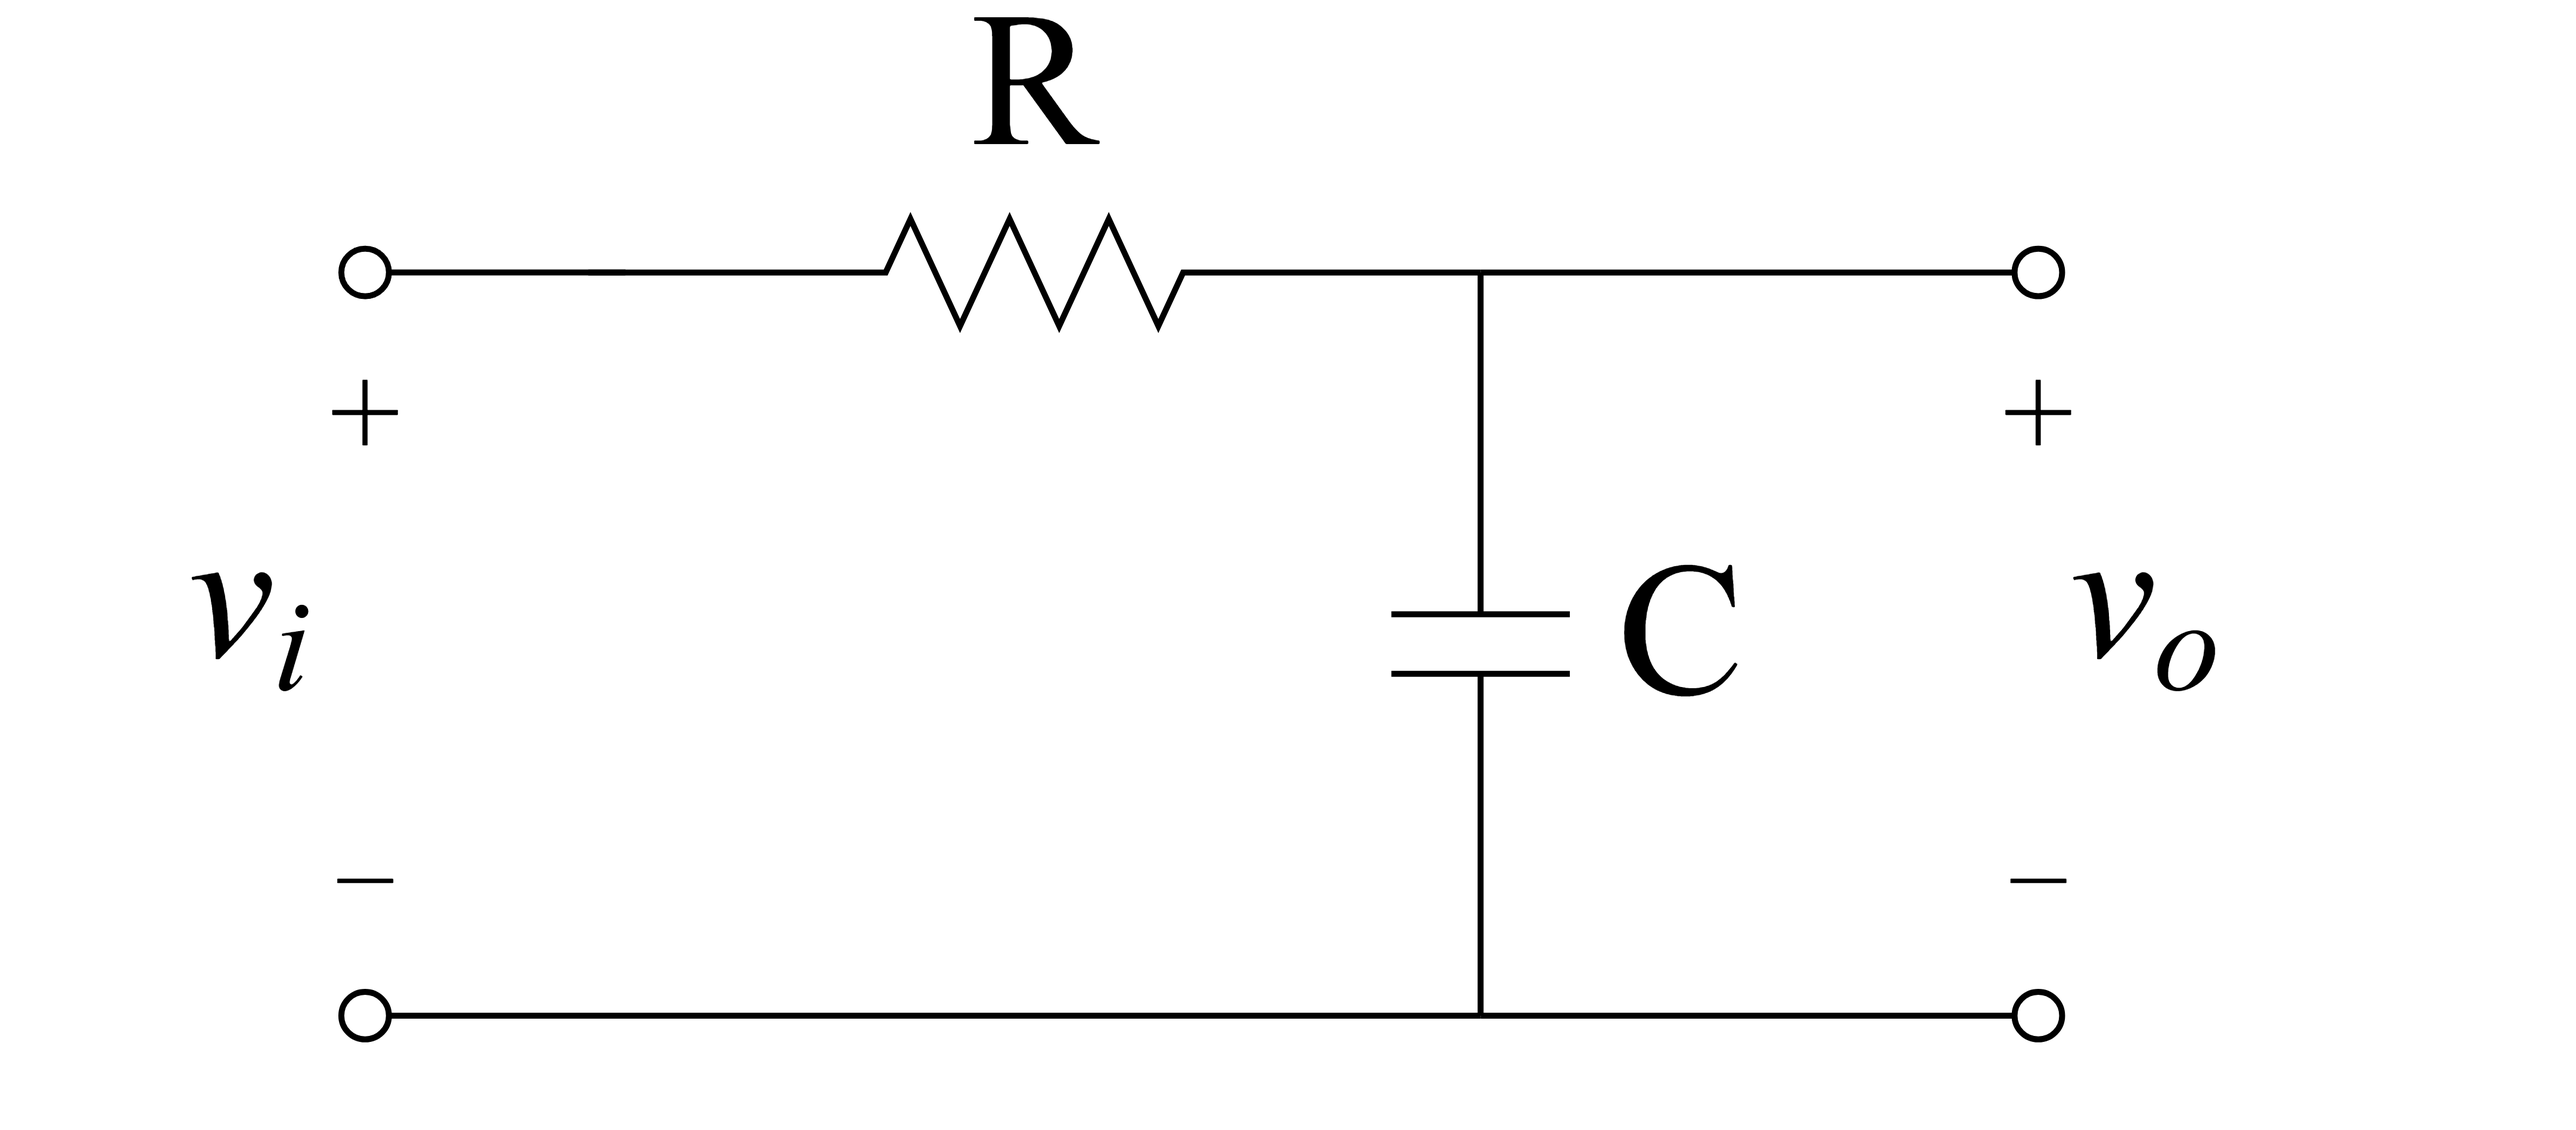
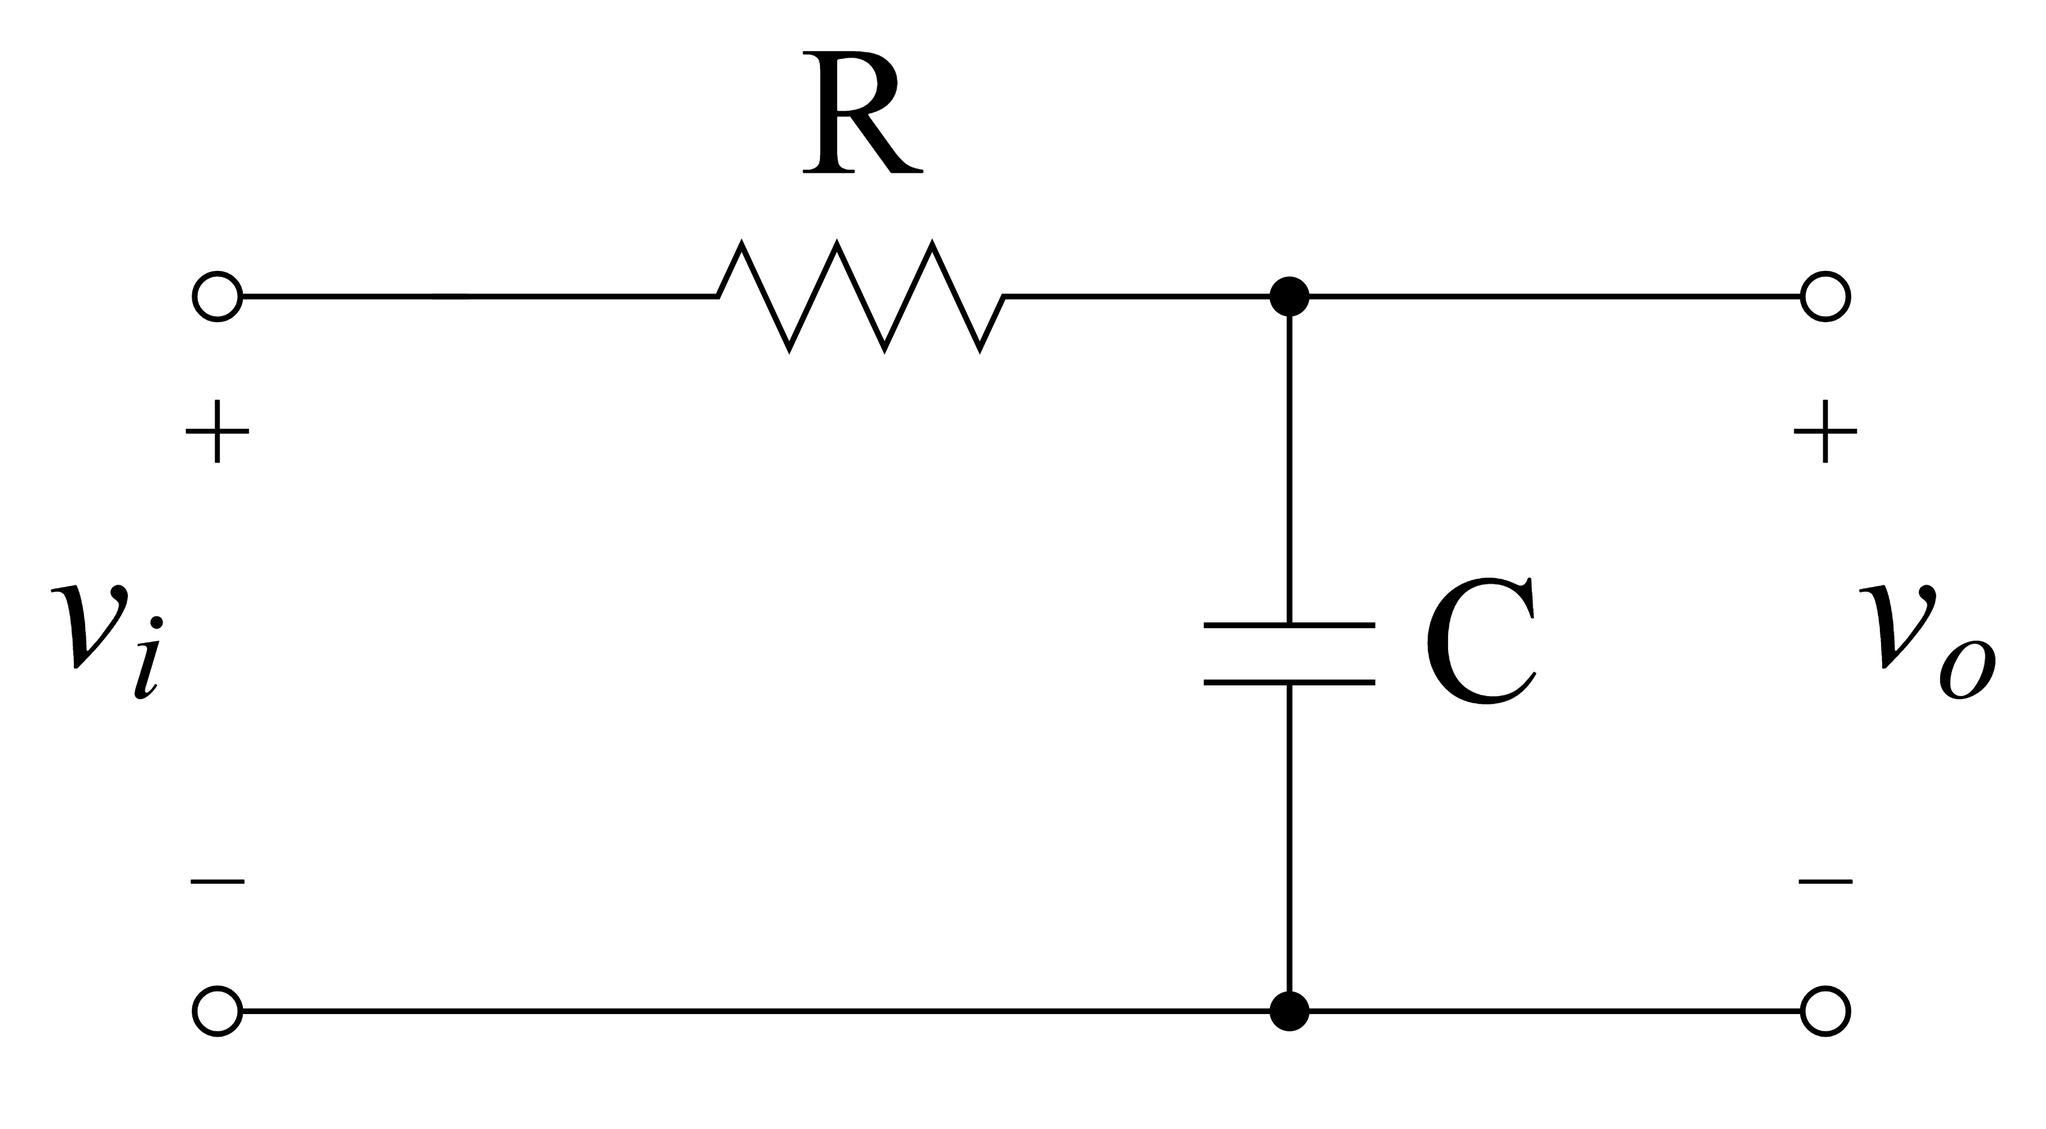
hello

diff --git a/innleveringer/A3/Latx/main.tex b/innleveringer/A3/Latx/main.tex
@@ -13,8 +13,8 @@
 \newcommand{\institution}{FHS/Cyberingeniørskolen}
 \newcommand{\laboratory}{Signal Behandling}
 \newcommand{\coursecode}{ING3504}
-\newcommand{\assignmenttype}{Innlevering 1}
-\newcommand{\assignmenttitle}{Octave}
+\newcommand{\assignmenttype}{Innlevering 3}
+\newcommand{\assignmenttitle}{Fourierrekke og RC-lavpassfilter}
 \newcommand{\studentname}{Abay}
 \newcommand{\class}{VING 78}
 \newcommand{\submissiondate}{\today}
@@ -30,6 +30,13 @@
 \section*{Oppgaveliste}
 \noindent
 \hyperlink{oppgave1}{\textbf{Oppgave 1}} \hfill \hyperlink{oppgave1}{1} \\[.5em]
+\hyperlink{a}{\textbf{\indent a)}} \hfill \hyperlink{a}{1} \\[.5em]
+\hyperlink{b}{\textbf{\indent b)}} \hfill \hyperlink{b}{2} \\[.5em]
+\hyperlink{c}{\textbf{\indent c)}} \hfill \hyperlink{c}{3} \\[.5em]
+\hyperlink{d}{\textbf{\indent d)}} \hfill \hyperlink{d}{4} \\[.5em]
+\hyperlink{e}{\textbf{\indent e)}} \hfill \hyperlink{e}{5} \\[.5em]
+\hyperlink{f}{\textbf{\indent f)}} \hfill \hyperlink{f}{6} \\[.5em]
+\hyperlink{g}{\textbf{\indent g)}} \hfill \hyperlink{g}{8} \\[.5em]
 \hyperlink{Vedlegg A}{\textbf{Vedlegg A}} \hfill \hyperlink{Vedlegg A}{9} \\[.5em]
 \noindent\rule{\textwidth}{1pt}
 
